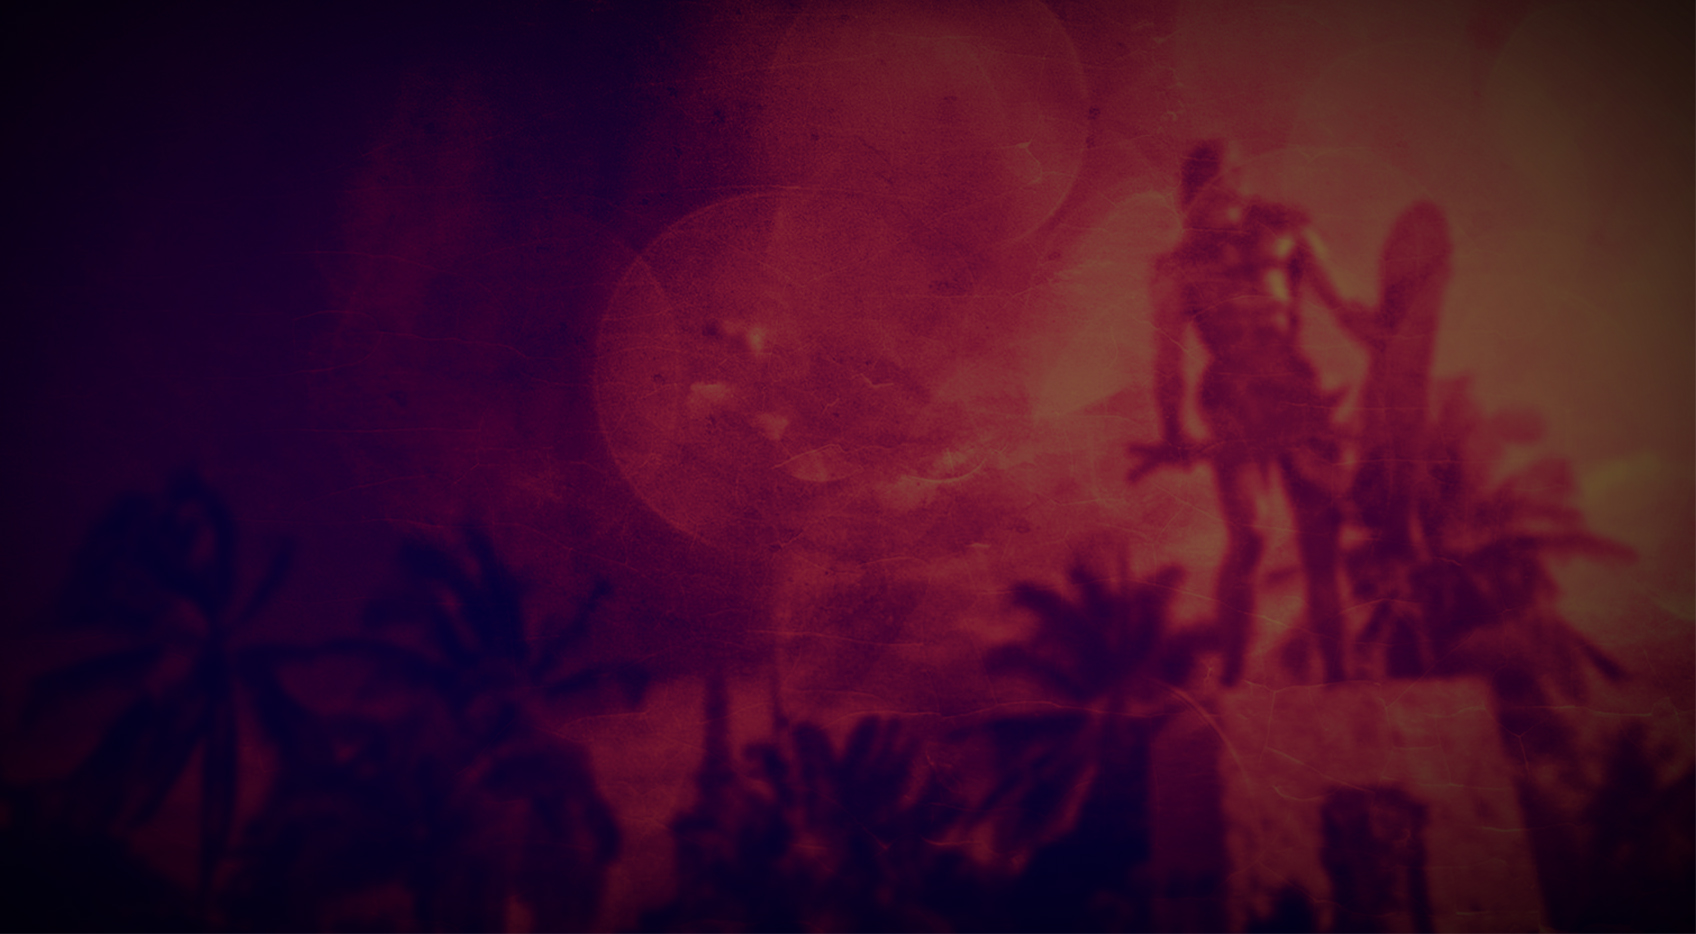
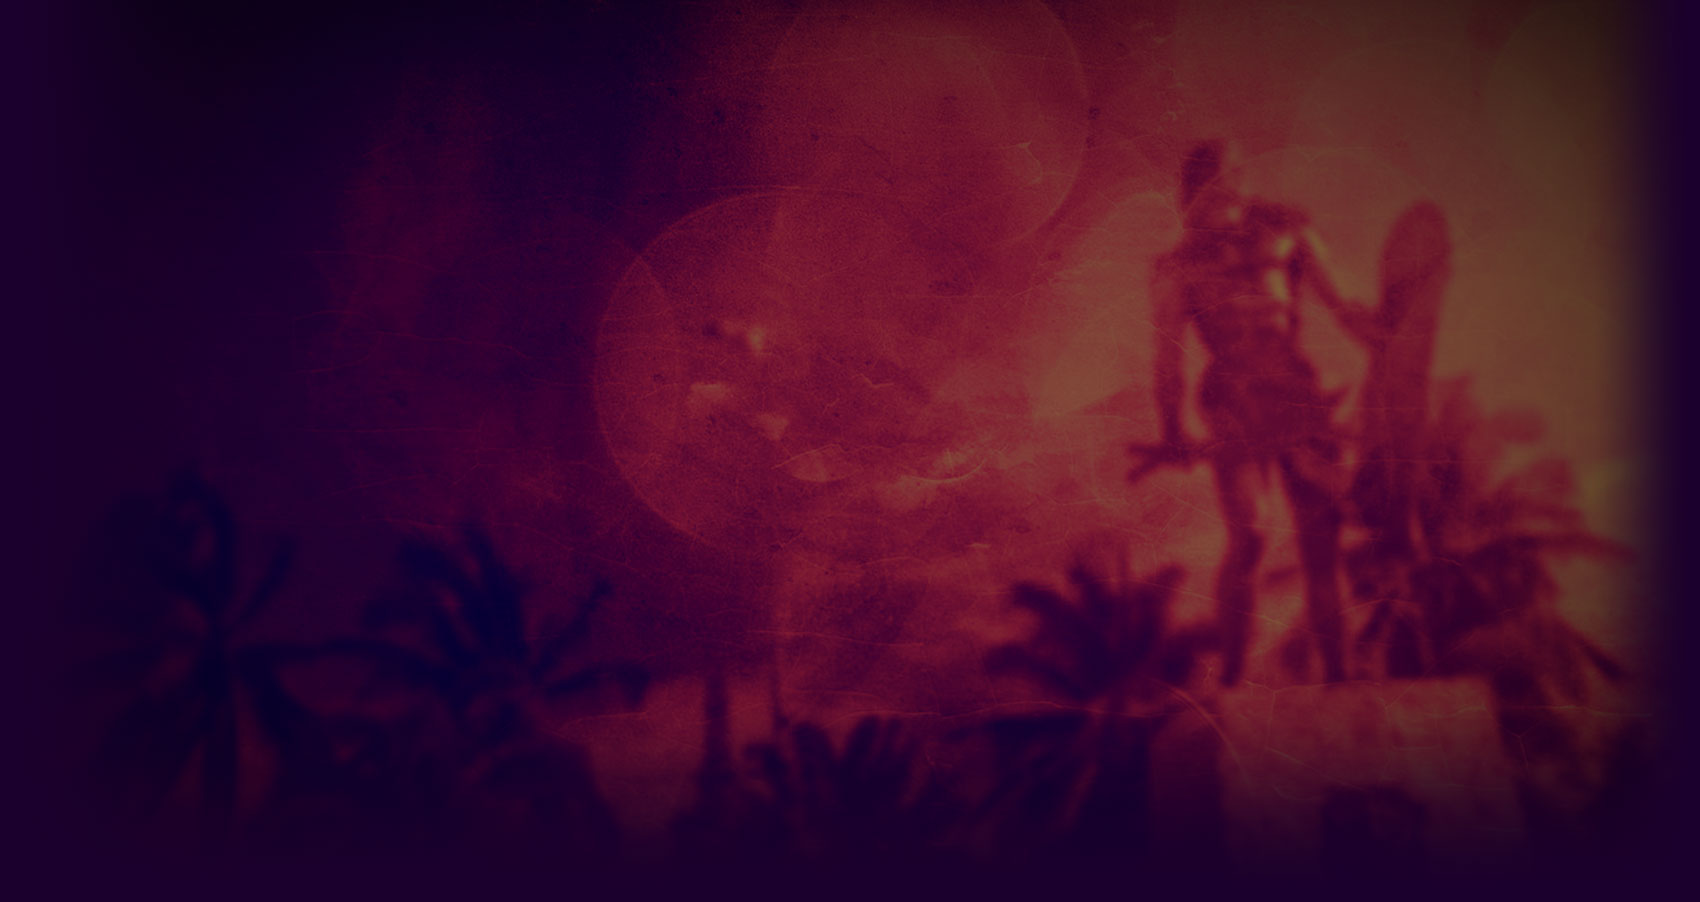
Google fonts and font colors setup on static.

diff --git a/static/stylesheets/style.css b/static/stylesheets/style.css
@@ -1,22 +1,52 @@
 /* line 1, ../sass/partials/_base.scss */
-body {
-  background: url("../images/header_bg.jpg") top center no-repeat;
+html {
+  background-color: #1b002c;
+}
+
+/* line 5, ../sass/partials/_base.scss */
+a {
+  text-decoration: underline;
+}
+
+/* line 9, ../sass/partials/_base.scss */
+p {
+  font-family: "Muli", sans-serif;
+}
+
+/* line 13, ../sass/partials/_base.scss */
+h1, h2, h3, h4, h5, h6 {
+  font-family: "Saira Condensed", sans-serif;
 }
 
 @media only screen and (min-width: 0px) {
-  /* line 6, ../sass/partials/_base.scss */
+  /* line 18, ../sass/partials/_base.scss */
+  body {
+    background: url("../images/header_bg_sm.jpg") top center no-repeat #1b002c;
+  }
+
+  /* line 21, ../sass/partials/_base.scss */
   .camp_logo_wrapper {
     background: url("../images/camp_logo_mobile.png") center no-repeat;
   }
 }
 @media only screen and (min-width: 640px) {
-  /* line 12, ../sass/partials/_base.scss */
+  /* line 27, ../sass/partials/_base.scss */
+  body {
+    background: url("../images/header_bg_md.jpg") top center no-repeat #1b002c;
+  }
+
+  /* line 30, ../sass/partials/_base.scss */
   .camp_logo_wrapper {
     background: url("../images/camp_logo_tablet.png") center no-repeat;
   }
 }
 @media only screen and (min-width: 1024px) {
-  /* line 18, ../sass/partials/_base.scss */
+  /* line 36, ../sass/partials/_base.scss */
+  body {
+    background: url("../images/header_bg.jpg") top center no-repeat #1b002c;
+  }
+
+  /* line 39, ../sass/partials/_base.scss */
   .camp_logo_wrapper {
     background: url("../images/camp_logo_tablet_wide.png") center no-repeat;
   }
@@ -33,12 +63,13 @@ body {
 
 /* line 9, ../sass/partials/_header.scss */
 p.headline {
-  color: #701e2c;
+  margin-top: 20px;
+  color: #a04b4e;
   text-align: center;
 }
-/* line 12, ../sass/partials/_header.scss */
+/* line 13, ../sass/partials/_header.scss */
 p.headline a {
-  color: #701e2c;
+  color: #a04b4e;
 }
 
 @media only screen and (min-width: 640px) {

diff --git a/static/sass/partials/_base.scss b/static/sass/partials/_base.scss
@@ -1,22 +1,42 @@
-body {
-  background: url("../images/header_bg.jpg") top center no-repeat;
+html {
+  background-color: $main-bg-color;
+}
+
+a {
+  text-decoration: underline;
+}
+
+p {
+  font-family: $font-text;
+}
+
+h1, h2, h3, h4, h5, h6 {
+  font-family: $font-title;
 }
 
 @media only screen and (min-width: 0px) {
+  body {
+    background: url("../images/header_bg_sm.jpg") top center no-repeat $main-bg-color;
+  }
   .camp_logo_wrapper {
     background: url("../images/camp_logo_mobile.png") center no-repeat;
   }
 }
 
 @media only screen and (min-width: 640px) {
+  body {
+    background: url("../images/header_bg_md.jpg") top center no-repeat $main-bg-color;
+  }
   .camp_logo_wrapper {
     background: url("../images/camp_logo_tablet.png") center no-repeat;
   }
 }
 
 @media only screen and (min-width: 1024px) {
+  body {
+    background: url("../images/header_bg.jpg") top center no-repeat $main-bg-color;
+  }
   .camp_logo_wrapper {
     background: url("../images/camp_logo_tablet_wide.png") center no-repeat;
   }
 }
-

diff --git a/static/header.html b/static/header.html
@@ -1,16 +1,16 @@
 <html>
 
 <head>
-<!-- Latest compiled and minified CSS -->
   <link rel="stylesheet" href="https://maxcdn.bootstrapcdn.com/bootstrap/3.3.7/css/bootstrap.min.css" integrity="sha384-BVYiiSIFeK1dGmJRAkycuHAHRg32OmUcww7on3RYdg4Va+PmSTsz/K68vbdEjh4u" crossorigin="anonymous">
   <link rel="stylesheet" href="stylesheets/style.css">
+  <link href="https://fonts.googleapis.com/css?family=Saira+Condensed:700|Muli" rel="stylesheet">
 </head>
 
 <body>
   <div class="container">
     <div class="col-md-12">
      <div class="clearfix header_wrapper">
-      <p class="headline">This camp is brought to you by the <a href="https://www.facebook.com/groups/drupalcebu/">DrupalCebu Users Group</a>.</p>
+      <p class="headline">This camp is brought to you by the <a href="https://www.facebook.com/groups/drupalcebu/">Drupal Cebu Users Group</a>.</p>
       <div class="camp_logo_wrapper"></div>
     </div>
     </div>

diff --git a/static/sass/partials/_header.scss b/static/sass/partials/_header.scss
@@ -7,13 +7,13 @@
 }
 
 p.headline {
-  color: $dark_text;
+  margin-top: 20px;
+  color: $minor-color-text;
   text-align: center;
   a {
-    color: $dark_text;
+    color: $minor-color-text;
   }
 }
-
 
 @media only screen and (min-width: 640px) {
   .camp_logo_wrapper {

diff --git a/static/sass/style.scss b/static/sass/style.scss
@@ -1,8 +1,10 @@
 @import "compass";
 @import "compass/css3";
 
-@import "partials/base";
+// Setup of main variables.
+@import "partials/colors";
 @import "partials/fonts";
+
+@import "partials/base";
 @import "partials/header";
 @import "partials/global";
-

diff --git a/static/sass/partials/_fonts.scss b/static/sass/partials/_fonts.scss
@@ -1,1 +1,2 @@
-$dark_text: #701e2c;
+$font-title: 'Saira Condensed', sans-serif;
+$font-text: 'Muli', sans-serif;

diff --git a/static/sass/partials/_colors.scss b/static/sass/partials/_colors.scss
@@ -1,0 +1,3 @@
+$main-bg-color: #1b002c;
+
+$minor-color-text: #a04b4e;
